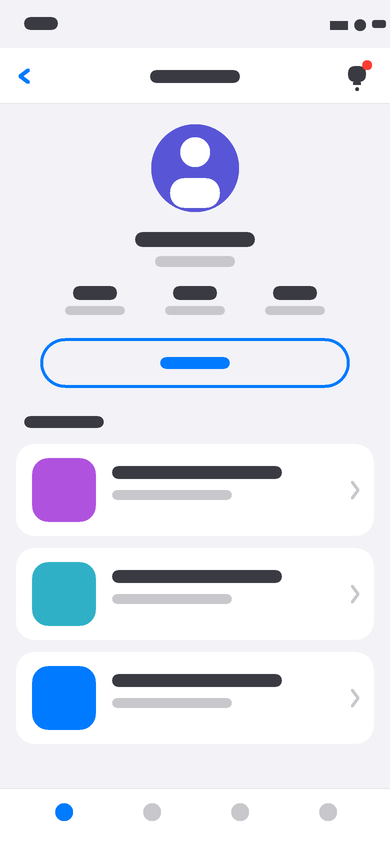
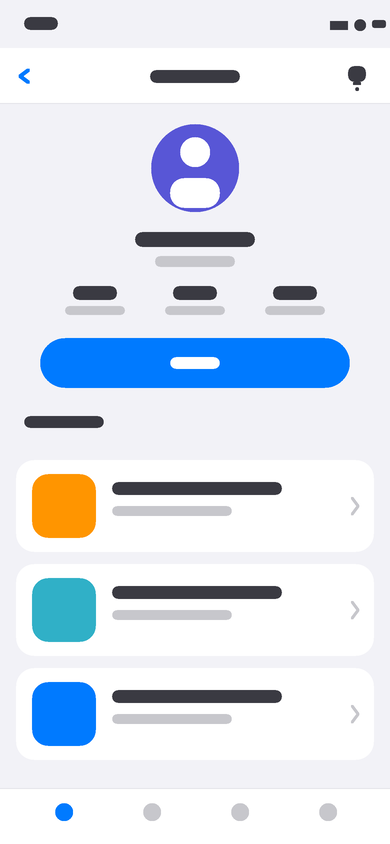
Demo a layout-shift diff instead of colour changes
Rework the AFTER fixture so it differs from BEFORE by position, not
colour: the card list is nudged down 16px, simulating a layout-shift
regression. The diff ghosts every moved card edge in pink, which is a
more representative showcase than recolouring elements. Drop the now
unused colour/badge/outline helpers.

diff --git a/examples/gen_fixtures.rs b/examples/gen_fixtures.rs
@@ -1,9 +1,9 @@
 // Generates the demo screenshots used by the README: a believable iOS-style
 // profile screen, rendered at 3x and downscaled for anti-aliasing. The BEFORE
-// and AFTER frames are identical except for three natural changes:
-//   * the primary button flips Follow (filled) -> Following (outlined)
-//   * a notification badge appears on the bell
-//   * the first card's thumbnail changes colour
+// and AFTER frames are identical except for one thing — in AFTER the whole
+// card list is nudged down by a few pixels, simulating the layout-shift
+// regression that screenshot diffing is meant to catch. The diff ghosts every
+// moved card edge in pink.
 //
 //   cargo run --release --example gen_fixtures
 use image::{Rgba, RgbaImage};
@@ -20,10 +20,8 @@ const INK: Col = [58, 58, 66, 255]; // "text"
 const FAINT: Col = [199, 199, 204, 255]; // secondary "text"
 const BLUE: Col = [0, 122, 255, 255];
 const ORANGE: Col = [255, 149, 0, 255];
-const PURPLE: Col = [175, 82, 222, 255];
 const TEAL: Col = [48, 176, 199, 255];
 const INDIGO: Col = [88, 86, 214, 255];
-const RED: Col = [255, 59, 48, 255];
 
 struct P {
     img: RgbaImage,
@@ -77,14 +75,6 @@ impl P {
                 }
             }
         }
-    }
-
-    /// Rounded-rectangle outline of thickness `t` (logical).
-    fn rrect_outline(&mut self, x: i64, y: i64, w: i64, h: i64, r: i64, t: i64, c: Col) {
-        self.rrect(x, y, w, h, r, c);
-        // Carve the interior back out — caller draws onto a known background,
-        // so punch with the background colour.
-        self.rrect(x + t, y + t, w - 2 * t, h - 2 * t, (r - t).max(0), BG);
     }
 
     fn circle(&mut self, cx: i64, cy: i64, r: i64, c: Col) {
@@ -151,9 +141,6 @@ fn draw_screen(after: bool) -> RgbaImage {
     p.rrect(348, 66, 18, 16, 6, INK);
     p.rect(353, 82, 8, 3, INK);
     p.circle(357, 89, 2, INK);
-    if after {
-        p.circle(367, 65, 5, RED); // notification badge
-    }
 
     // ----- profile header -----
     p.circle(195, 168, 44, INDIGO);
@@ -169,22 +156,20 @@ fn draw_screen(after: bool) -> RgbaImage {
         p.rrect(cx - 30, 306, 60, 9, 4, FAINT); // label
     }
 
-    // ----- primary button: Follow (filled) -> Following (outline) -----
-    if after {
-        p.rrect_outline(40, 338, 310, 50, 25, 3, BLUE);
-        p.rrect(160, 357, 70, 12, 6, BLUE); // "Following"
-    } else {
-        p.rrect(40, 338, 310, 50, 25, BLUE);
-        p.rrect(170, 357, 50, 12, 6, WHITE); // "Follow"
-    }
+    // ----- primary button -----
+    p.rrect(40, 338, 310, 50, 25, BLUE);
+    p.rrect(170, 357, 50, 12, 6, WHITE); // "Follow"
 
     // ----- section header -----
     p.rrect(24, 416, 80, 12, 6, INK);
 
     // ----- cards -----
-    let thumbs = [if after { PURPLE } else { ORANGE }, TEAL, BLUE];
+    // AFTER nudges the whole list down — the layout-shift regression we want
+    // the diff to catch. Everything above stays put.
+    let shift = if after { 16 } else { 0 };
+    let thumbs = [ORANGE, TEAL, BLUE];
     for (i, thumb) in thumbs.iter().enumerate() {
-        let y = 444 + i as i64 * 104;
+        let y = 444 + i as i64 * 104 + shift;
         p.rrect(16, y, 358, 92, 18, WHITE);
         p.rrect(32, y + 14, 64, 64, 16, *thumb); // thumbnail
         p.rrect(112, y + 22, 170, 13, 6, INK); // title